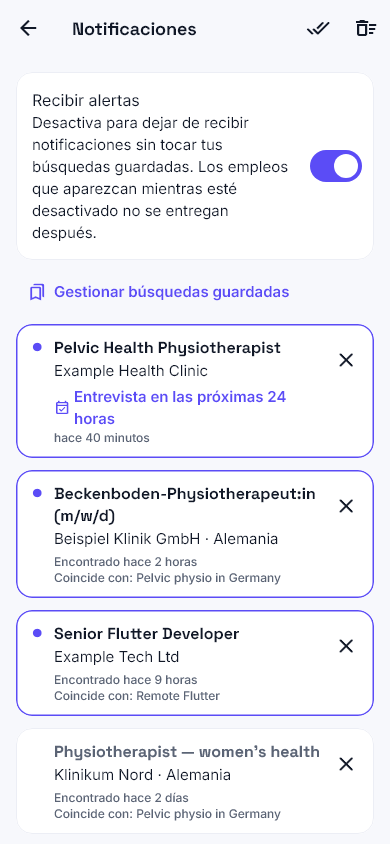
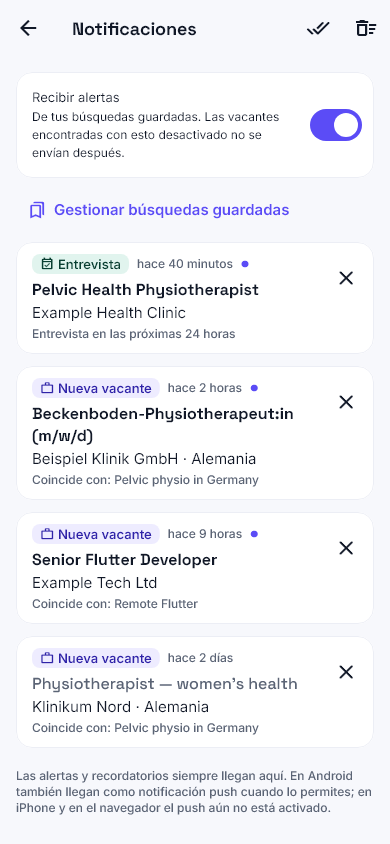
feat(app): notification centre refined: compact alerts switch, kind badge with time, translated job titles, quieter unread state, clearer remove action

diff --git a/app/lib/features/notifications/presentation/notifications_page.dart b/app/lib/features/notifications/presentation/notifications_page.dart
@@ -17,6 +17,7 @@ import '../../search/presentation/pages/job_detail_page.dart';
 import '../../searches/presentation/saved_searches_cubit.dart';
 import '../../searches/presentation/saved_searches_page.dart';
 import '../../searches/presentation/search_labels.dart';
+import '../../translation/translation_widgets.dart';
 import '../domain/notifications_repository.dart';
 import 'notifications_cubit.dart';
 
@@ -155,6 +156,8 @@ class _NotificationsPageState extends State<NotificationsPage> {
                 ),
                 child: SwitchListTile.adaptive(
                   contentPadding: EdgeInsets.zero,
+                  dense: true,
+                  visualDensity: VisualDensity.compact,
                   value: s.alertsEnabled,
                   onChanged: s.busy ? null : cubit.setAlertsEnabled,
                   title: Text(l.ntEnabled),
@@ -245,6 +248,18 @@ class _NotificationCard extends StatelessWidget {
   final VoidCallback onTap;
   final VoidCallback onDismiss;
 
+  /// The job behind a job alert, enough for the shared translation of titles (the original title is always kept).
+  JobPosting? get _job => n.kind.isReminder
+      ? null
+      : JobPosting(
+          source: n.sourceId ?? 'notification',
+          externalId: n.jobId ?? n.id,
+          company: n.company ?? '',
+          title: n.title,
+          originalUrl: n.originalUrl ?? '',
+          country: n.country,
+        );
+
   @override
   Widget build(BuildContext context) {
     final l = AppLocalizations.of(context);
@@ -261,12 +276,54 @@ class _NotificationCard extends StatelessWidget {
         : (more > 0
               ? l.ntFromSearchesMore(shown, more)
               : l.ntFromSearches(shown));
+    final (kindLabel, kindIcon, kindFg, kindBg) = switch (n.kind) {
+      NotificationKind.newJob => (
+        l.ntKindNewJob,
+        Icons.work_outline_rounded,
+        c.onPrimaryContainer,
+        c.primaryContainer,
+      ),
+      NotificationKind.interview => (
+        l.ntKindInterview,
+        Icons.event_available_outlined,
+        c.onSuccessContainer,
+        c.successContainer,
+      ),
+      NotificationKind.followUp => (
+        l.ntKindFollowUp,
+        Icons.reply_outlined,
+        c.onWarningContainer,
+        c.warningContainer,
+      ),
+    };
+    final titleStyle = n.unread
+        ? context.text.titleMedium
+        : context.text.titleMedium!.copyWith(
+            color: c.muted,
+            fontWeight: FontWeight.w500,
+          );
+    Widget title(String t, bool translated) => Text.rich(
+      TextSpan(
+        children: [
+          TextSpan(text: t),
+          if (translated)
+            const WidgetSpan(
+              alignment: PlaceholderAlignment.middle,
+              child: Padding(
+                padding: EdgeInsetsDirectional.only(start: 6),
+                child: TranslatedMark(),
+              ),
+            ),
+        ],
+      ),
+      style: titleStyle,
+    );
+    final job = _job;
     return Semantics(
       container: true,
-      label: n.unread ? '${l.ntUnread}: ${n.title}' : n.title,
+      label: '$kindLabel. ${n.unread ? '${l.ntUnread}: ' : ''}${n.title}',
       child: OrbiCard(
         onTap: onTap,
-        selected: n.unread,
         padding: const EdgeInsets.fromLTRB(
           AppSpace.s4,
           AppSpace.s3,
@@ -276,60 +333,74 @@ class _NotificationCard extends StatelessWidget {
         child: Row(
           crossAxisAlignment: CrossAxisAlignment.start,
           children: [
-            Padding(
-              padding: const EdgeInsets.only(top: 6, right: AppSpace.s3),
-              child: n.unread
-                  ? Icon(Icons.circle, size: 10, color: c.primary)
-                  : const SizedBox(width: 10),
-            ),
             Expanded(
               child: Column(
                 crossAxisAlignment: CrossAxisAlignment.start,
                 children: [
-                  Text(
-                    n.title,
-                    style: n.unread
-                        ? context.text.titleMedium
-                        : context.text.titleMedium!.copyWith(color: c.muted),
+                  Wrap(
+                    spacing: AppSpace.s2,
+                    runSpacing: AppSpace.s1,
+                    crossAxisAlignment: WrapCrossAlignment.center,
+                    children: [
+                      ExcludeSemantics(
+                        child: Container(
+                          padding: const EdgeInsets.symmetric(
+                            horizontal: AppSpace.s2,
+                            vertical: 2,
+                          ),
+                          decoration: BoxDecoration(
+                            color: kindBg,
+                            borderRadius: BorderRadius.circular(AppRadius.sm),
+                          ),
+                          child: Row(
+                            mainAxisSize: MainAxisSize.min,
+                            children: [
+                              Icon(kindIcon, size: 14, color: kindFg),
+                              const SizedBox(width: 4),
+                              Text(
+                                kindLabel,
+                                style: context.text.labelMedium!.copyWith(
+                                  color: kindFg,
+                                ),
+                              ),
+                            ],
+                          ),
+                        ),
+                      ),
+                      Text(
+                        agoLabel(n.createdAt, now, l),
+                        style: context.metadataStyle,
+                      ),
+                      if (n.unread)
+                        ExcludeSemantics(
+                          child: Icon(Icons.circle, size: 8, color: c.primary),
+                        ),
+                    ],
                   ),
+                  const SizedBox(height: AppSpace.s1),
+                  if (job == null)
+                    title(n.title, false)
+                  else
+                    TranslatedTitle(
+                      job: job,
+                      builder: (context, t, translated) => title(t, translated),
+                    ),
                   if (where.isNotEmpty) ...[
                     const SizedBox(height: 2),
                     Text(where, style: context.text.bodyMedium),
                   ],
-                  const SizedBox(height: AppSpace.s1),
                   if (n.kind.isReminder) ...[
-                    Row(
-                      children: [
-                        Icon(
-                          n.kind == NotificationKind.interview
-                              ? Icons.event_available_outlined
-                              : Icons.reply_outlined,
-                          size: 16,
-                          color: c.primary,
-                        ),
-                        const SizedBox(width: AppSpace.s1),
-                        Flexible(
-                          child: Text(
-                            n.kind == NotificationKind.interview
-                                ? l.ntReminderInterview
-                                : l.ntReminderFollowUp,
-                            style: context.text.labelLarge!.copyWith(
-                              color: c.primary,
-                            ),
-                          ),
-                        ),
-                      ],
-                    ),
+                    const SizedBox(height: 2),
                     Text(
-                      agoLabel(n.createdAt, now, l),
+                      n.kind == NotificationKind.interview
+                          ? l.ntReminderInterview
+                          : l.ntReminderFollowUp,
                       style: context.metadataStyle,
                     ),
-                  ] else
-                    Text(
-                      l.ntFound(agoLabel(n.createdAt, now, l)),
-                      style: context.metadataStyle,
-                    ),
-                  if (from != null) Text(from, style: context.metadataStyle),
+                  ] else if (from != null) ...[
+                    const SizedBox(height: 2),
+                    Text(from, style: context.metadataStyle),
+                  ],
                 ],
               ),
             ),

diff --git a/app/lib/l10n/app_localizations.dart b/app/lib/l10n/app_localizations.dart
@@ -3481,7 +3481,7 @@ abstract class AppLocalizations {
   /// No description provided for @ntDismiss.
   ///
   /// In en, this message translates to:
-  /// **'Dismiss'**
+  /// **'Remove from list'**
   String get ntDismiss;
 
   /// No description provided for @ntUnread.
@@ -3529,7 +3529,7 @@ abstract class AppLocalizations {
   /// No description provided for @ntEnabledHelp.
   ///
   /// In en, this message translates to:
-  /// **'Turn off to stop new notifications without changing your saved searches. Jobs that appear while it is off are not delivered later.'**
+  /// **'From your saved searches. Jobs found while this is off are not sent later.'**
   String get ntEnabledHelp;
 
   /// No description provided for @ntPushNote.
@@ -4287,6 +4287,24 @@ abstract class AppLocalizations {
   /// In en, this message translates to:
   /// **'Skills listed'**
   String get cpRowSkills;
+
+  /// No description provided for @ntKindNewJob.
+  ///
+  /// In en, this message translates to:
+  /// **'New job'**
+  String get ntKindNewJob;
+
+  /// No description provided for @ntKindInterview.
+  ///
+  /// In en, this message translates to:
+  /// **'Interview'**
+  String get ntKindInterview;
+
+  /// No description provided for @ntKindFollowUp.
+  ///
+  /// In en, this message translates to:
+  /// **'Follow-up'**
+  String get ntKindFollowUp;
 }
 
 class _AppLocalizationsDelegate

diff --git a/app/test/notifications/notifications_test.dart b/app/test/notifications/notifications_test.dart
@@ -297,9 +297,10 @@ void main() {
         expect(find.text('Registered Nurse'), findsOneWidget);
         expect(find.text('Acme · Germany'), findsNWidgets(2));
         expect(find.text('Matches: Nurses in Germany'), findsOneWidget);
-        expect(find.text('Found 3 hours ago'), findsNWidgets(2));
+        expect(find.text('3 hours ago'), findsNWidgets(2));
+        expect(find.text('New job'), findsNWidgets(2));
         // dismiss one
-        await t.tap(find.byTooltip('Dismiss').last);
+        await t.tap(find.byTooltip('Remove from list').last);
         await t.pumpAndSettle();
         expect(find.text('Welder'), findsNothing);
         expect(fakes.notifications.dismissed, {'2'});
@@ -348,6 +349,8 @@ void main() {
         await t.pumpAndSettle();
         expect(find.text('Interview in the next 24 hours'), findsOneWidget);
         expect(find.text('Follow-up day for this application'), findsOneWidget);
+      expect(find.text('Interview'), findsOneWidget);
+      expect(find.text('Follow-up'), findsOneWidget);
         expect(find.textContaining('Found'), findsNothing);
         await t.tap(find.text('Pelvic physiotherapist'));
         await t.pumpAndSettle();

diff --git a/app/lib/l10n/app_localizations_es.dart b/app/lib/l10n/app_localizations_es.dart
@@ -1929,7 +1929,7 @@ class AppLocalizationsEs extends AppLocalizations {
       'Desaparecen de esta lista. Los empleos no se ven afectados.';
 
   @override
-  String get ntDismiss => 'Descartar';
+  String get ntDismiss => 'Quitar de la lista';
 
   @override
   String get ntUnread => 'Sin leer';
@@ -1961,7 +1961,7 @@ class AppLocalizationsEs extends AppLocalizations {
 
   @override
   String get ntEnabledHelp =>
-      'Desactiva para dejar de recibir notificaciones sin tocar tus búsquedas guardadas. Los empleos que aparezcan mientras esté desactivado no se entregan después.';
+      'De tus búsquedas guardadas. Las vacantes encontradas con esto desactivado no se envían después.';
 
   @override
   String get ntPushNote =>
@@ -2443,4 +2443,13 @@ class AppLocalizationsEs extends AppLocalizations {
 
   @override
   String get cpRowSkills => 'Habilidades indicadas';
+
+  @override
+  String get ntKindNewJob => 'Nueva vacante';
+
+  @override
+  String get ntKindInterview => 'Entrevista';
+
+  @override
+  String get ntKindFollowUp => 'Seguimiento';
 }

diff --git a/app/lib/l10n/app_localizations_pt.dart b/app/lib/l10n/app_localizations_pt.dart
@@ -1924,7 +1924,7 @@ class AppLocalizationsPt extends AppLocalizations {
       'Elas somem desta lista. As vagas não são afetadas.';
 
   @override
-  String get ntDismiss => 'Dispensar';
+  String get ntDismiss => 'Remover da lista';
 
   @override
   String get ntUnread => 'Não lida';
@@ -1956,7 +1956,7 @@ class AppLocalizationsPt extends AppLocalizations {
 
   @override
   String get ntEnabledHelp =>
-      'Desative para parar as novas notificações sem mexer nas pesquisas salvas. Vagas que surgirem enquanto estiver desativado não são entregues depois.';
+      'Das suas pesquisas salvas. Vagas encontradas com isto desligado não são enviadas depois.';
 
   @override
   String get ntPushNote =>
@@ -2439,4 +2439,13 @@ class AppLocalizationsPt extends AppLocalizations {
 
   @override
   String get cpRowSkills => 'Habilidades listadas';
+
+  @override
+  String get ntKindNewJob => 'Nova vaga';
+
+  @override
+  String get ntKindInterview => 'Entrevista';
+
+  @override
+  String get ntKindFollowUp => 'Retorno';
 }

diff --git a/app/lib/l10n/app_localizations_en.dart b/app/lib/l10n/app_localizations_en.dart
@@ -1918,7 +1918,7 @@ class AppLocalizationsEn extends AppLocalizations {
       'They disappear from this list. Jobs are not affected.';
 
   @override
-  String get ntDismiss => 'Dismiss';
+  String get ntDismiss => 'Remove from list';
 
   @override
   String get ntUnread => 'Unread';
@@ -1950,7 +1950,7 @@ class AppLocalizationsEn extends AppLocalizations {
 
   @override
   String get ntEnabledHelp =>
-      'Turn off to stop new notifications without changing your saved searches. Jobs that appear while it is off are not delivered later.';
+      'From your saved searches. Jobs found while this is off are not sent later.';
 
   @override
   String get ntPushNote =>
@@ -2431,4 +2431,13 @@ class AppLocalizationsEn extends AppLocalizations {
 
   @override
   String get cpRowSkills => 'Skills listed';
+
+  @override
+  String get ntKindNewJob => 'New job';
+
+  @override
+  String get ntKindInterview => 'Interview';
+
+  @override
+  String get ntKindFollowUp => 'Follow-up';
 }
